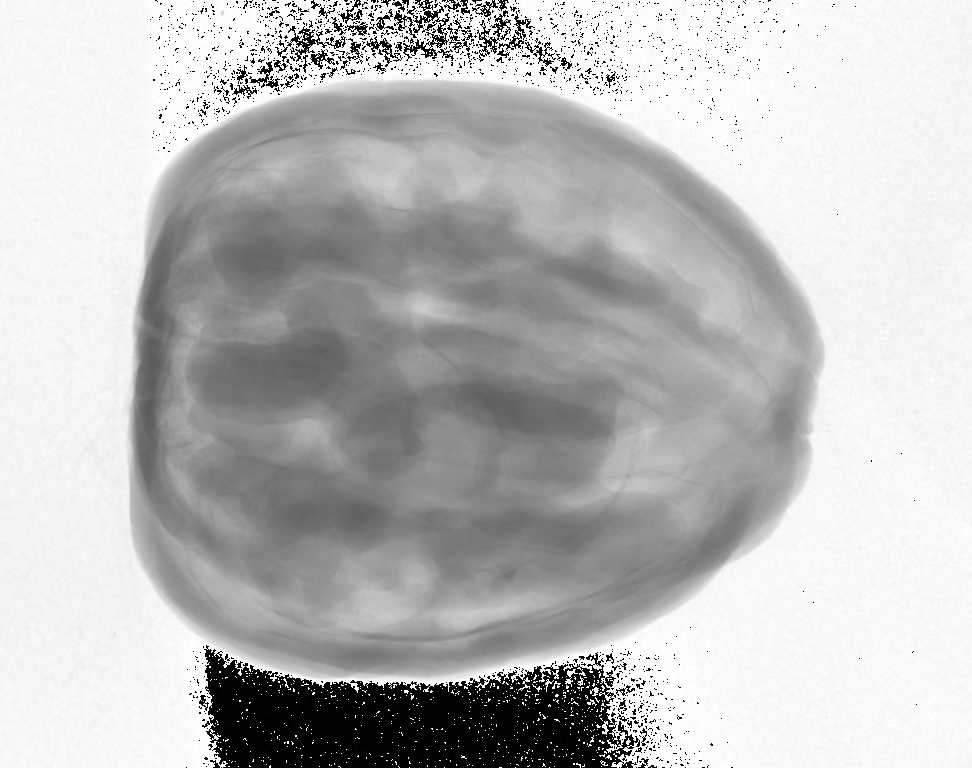
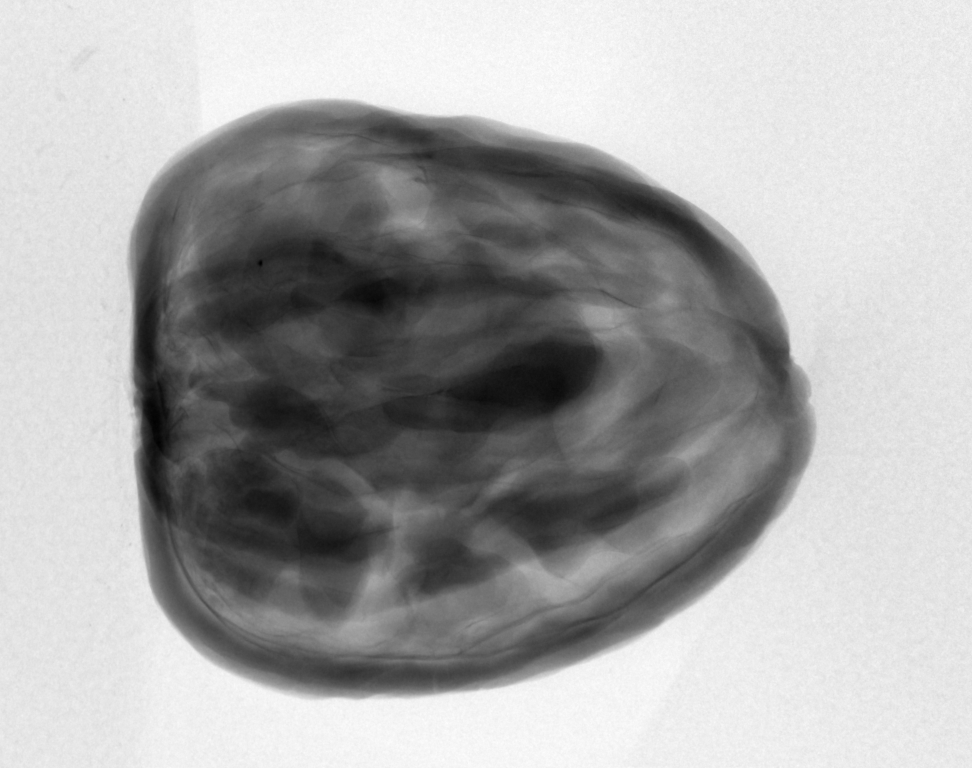
fix(repo): fix flat-field correction, modify background pixels as future work

diff --git a/homework/hw01/util/plotter.py b/homework/hw01/util/plotter.py
@@ -1,0 +1,33 @@
+# !/usr/bin/env python
+# -*- coding: utf-8 -*-
+
+# ********************************** #
+# Author: kaanguney.keklikci@tum.de  #
+# Date: 30.04.2023                   #
+# ********************************** #
+
+import matplotlib.pyplot as plt
+from PIL import Image
+import numpy as np
+
+def plot_figure(image: np.ndarray = np.array([]), save: bool = True, save_dir: str = "", tag: int = 0) -> None:
+    """
+    Plots and saves the parametrized data.
+    :param:
+        image: np.ndarray of image data
+        save: boolean to save the figure or not
+        tag: suffix string, associated file tag
+    :return:
+        None
+    """
+    plt.xticks([])
+    plt.yticks([])
+    plt.axis("off")
+    image *= 255
+    image = image.astype(np.uint8)
+    image = Image.fromarray(image)
+    if save:
+       output_file = save_dir + "/000{}.png".format(tag + 1)
+       image.save(output_file)
+       # plt.savefig(output_file)
+    plt.close()

diff --git a/homework/hw01/preprocessor.py b/homework/hw01/preprocessor.py
@@ -10,6 +10,8 @@ import time
 import os
 from data_loader import *
 from flat_field import apply_correction
+from util.normalizer import normalize
+from util.plotter import plot_figure
 
 def main():
     start_time = time.time()
@@ -24,8 +26,8 @@ def main():
     for tag, scan in enumerate(scans):
         out = apply_correction(scan, dark_frame, flat_fields)
         # map to the correct range
-        out = Image.fromarray(np.uint8(out * 255))
-        save_file(out, corrected_scan_dir, tag + 1)
+        out = normalize(out)
+        plot_figure(out, save=True, save_dir=corrected_scan_dir, tag=tag)
     print("Flat-field correction, done.")
     print("Total execution time: {:.2f} seconds.".format(time.time() - start_time))
 

diff --git a/homework/hw01/util/normalizer.py b/homework/hw01/util/normalizer.py
@@ -1,0 +1,20 @@
+# !/usr/bin/env python
+# -*- coding: utf-8 -*-
+
+# ********************************** #
+# Author: kaanguney.keklikci@tum.de  #
+# Date: 30.04.2023                   #
+# ********************************** #
+
+import numpy as np
+
+def normalize(image: np.ndarray = np.array([])) -> np.ndarray:
+    """
+    Min-max scales the values of image data for plotting.
+    :param:
+        image: np.ndarray containing pixel values
+    :return:
+        normalized: np.ndarray of normalized image
+    """
+    normalized = (image - image.min()) / (image.max() - image.min())
+    return normalized

diff --git a/homework/hw01/data_loader.py b/homework/hw01/data_loader.py
@@ -61,10 +61,11 @@ def store_matrix(storage: list = [], filenames: list = [], save_dir: str = "") -
     """
     for tag, filename in enumerate(filenames):
         data = Image.open(filename)
-        save_file(data, save_dir, tag + 1)
-        data.save(f"{save_dir}/000{tag + 1}.png")
         data = np.array(data)
         storage.append(data)
+        image = Image.fromarray(data)
+        save_file(image, save_dir, tag + 1)
+        image.close()
     return storage
 
 def save_file(data, save_dir: str = "", tag: int = 0) -> None:
